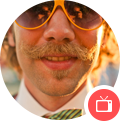
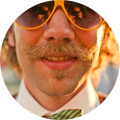
edits hw8

diff --git a/module-8/index.html b/module-8/index.html
@@ -24,29 +24,29 @@
             </section>
         </div>
     </header>
-<main>
+<main class="main">
     <div class="container">
         
         <section class="partners">
             <h2 class="partners-caption">Meet a partner for your best holiday</h2>
             <ul class="partners-list">
                 <li class="partners-list-item">
-                    <img src="img/bradley_hunter.png" alt="">
+                    <div class="img icon-tv"><img src="img/bradley_hunter.png" alt=""></div>
                     <p class="partners-name">Bradley Hunter</p>
                     <p class="partners-description">Based in Chicago. I love playing tennis loud music.</p>
                 </li>
                 <li class="partners-list-item">
-                    <img src="img/heather_walker.png" alt="">
+                    <div class="img icon-coffe"><img src="img/heather_walker.png" alt=""></div>
                     <p class="partners-name">Heather Walker</p>
                     <p class="partners-description">I'm a happy person that loves cats and climbing on mountains.</p>
                 </li>
                 <li class="partners-list-item">
-                    <img src="img/lucas_marsha.png" alt="">
+                    <div class="img icon-flask"><img src="img/lucas_marsha.png" alt=""></div>
                     <p class="partners-name">Lucas Marsha</p>
                     <p class="partners-description">I get my inspiration from nature and objects around me/ Ihave a passion to colours? typography and skateboards.</p>
                 </li>
                 <li class="partners-list-item">
-                    <img src="img/bradley_hunter_w.png" alt="">
+                    <div class="img icon-paper-plane"><img src="img/bradley_hunter_w.png" alt=""></div>
                     <p class="partners-name">Bradley Hunter</p>
                     <p class="partners-description">Based in Chicago. I love playing tennis and loud misic.</p>
                 </li>

diff --git a/module-8/css/style.css b/module-8/css/style.css
@@ -58,6 +58,7 @@ box-sizing: inherit;
     background-size: cover;
     color: rgb(255, 255, 255);
     padding-bottom: 140px;
+    /* margin-bottom: 70px; */
 }
 
 .header a {
@@ -133,9 +134,12 @@ box-sizing: inherit;
     font-weight: 700;
     max-width: 280px;
 }
+.main{
+    padding-top: 70px;
+}
 .partners-caption { 
     margin: 0 auto;
-    margin-top: 70px;
+    /* margin-top: 70px; */
     margin-bottom: 20px;
     font-weight: 700;
     font-size: 22px;
@@ -145,9 +149,36 @@ box-sizing: inherit;
     padding: 0;
     margin: 0 auto;
 }
+.img {
+    position: relative;
+    width: 220px;
+    margin: 0 auto;
+    margin-bottom: 25px;
+}
+.img::after{
+    content: "";
+    width: 40px;
+    height: 40px;
+    position: absolute;
+    bottom: 0;
+    right: 46px;
+}
+.icon-tv::after {
+    background-image: url(../img/icon-tv.png);
+}
+.icon-coffe::after{
+    background-image: url(../img/icon-coffe.png);
+}
+.icon-flask::after{
+    background-image: url(../img/icon-flask.png);
+}
+.icon-paper-plane::after{
+    background-image: url(../img/icon-paper-plane.png);
+}
 .partners-name { 
     font-weight: 700;
-    margin: 25px 0;
+    margin:0;
+    margin-bottom: 25px;
 }
 .partners-description{
     font-family: 'Roboto',sans-serif;
@@ -204,8 +235,14 @@ box-sizing: inherit;
         font-size: 24px;
         margin-bottom: 40px;
     }
+    .partners-link{
+        max-width: 224px;
+    }
+    .main{
+        padding-top: 75px;
+    }
     .partners-caption{
-        margin-top: 75px;
+        /* margin-top: 75px; */
         margin-bottom: 35px;
     }
     .partners-list{
@@ -221,14 +258,15 @@ box-sizing: inherit;
         margin-bottom: 60px;
     }
     .partners-name{
-        margin: 18px 0;
+        /* margin: 18px 0; */
+        margin-bottom: 18px;
     }
     .btn{
         max-width: 192px;
     }
 }
 
-@media screen and (min-width:1440px){
+@media screen and (min-width:960px){
     .header{
         background-image: url(../img/bg.jpg);
     }
